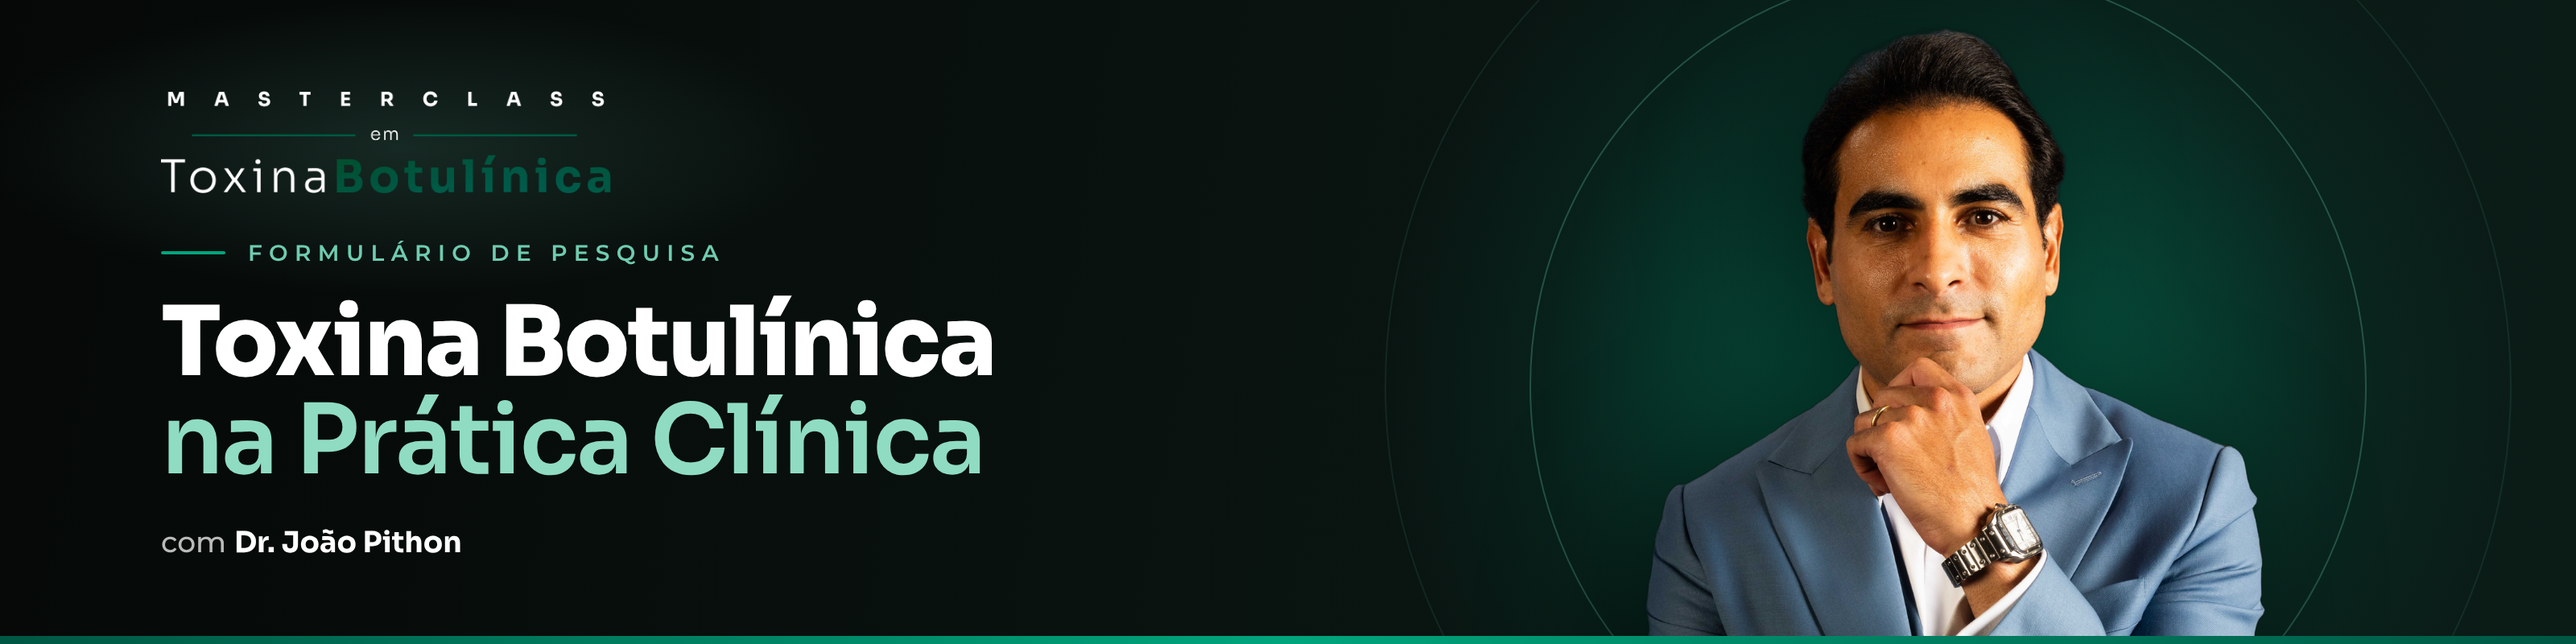
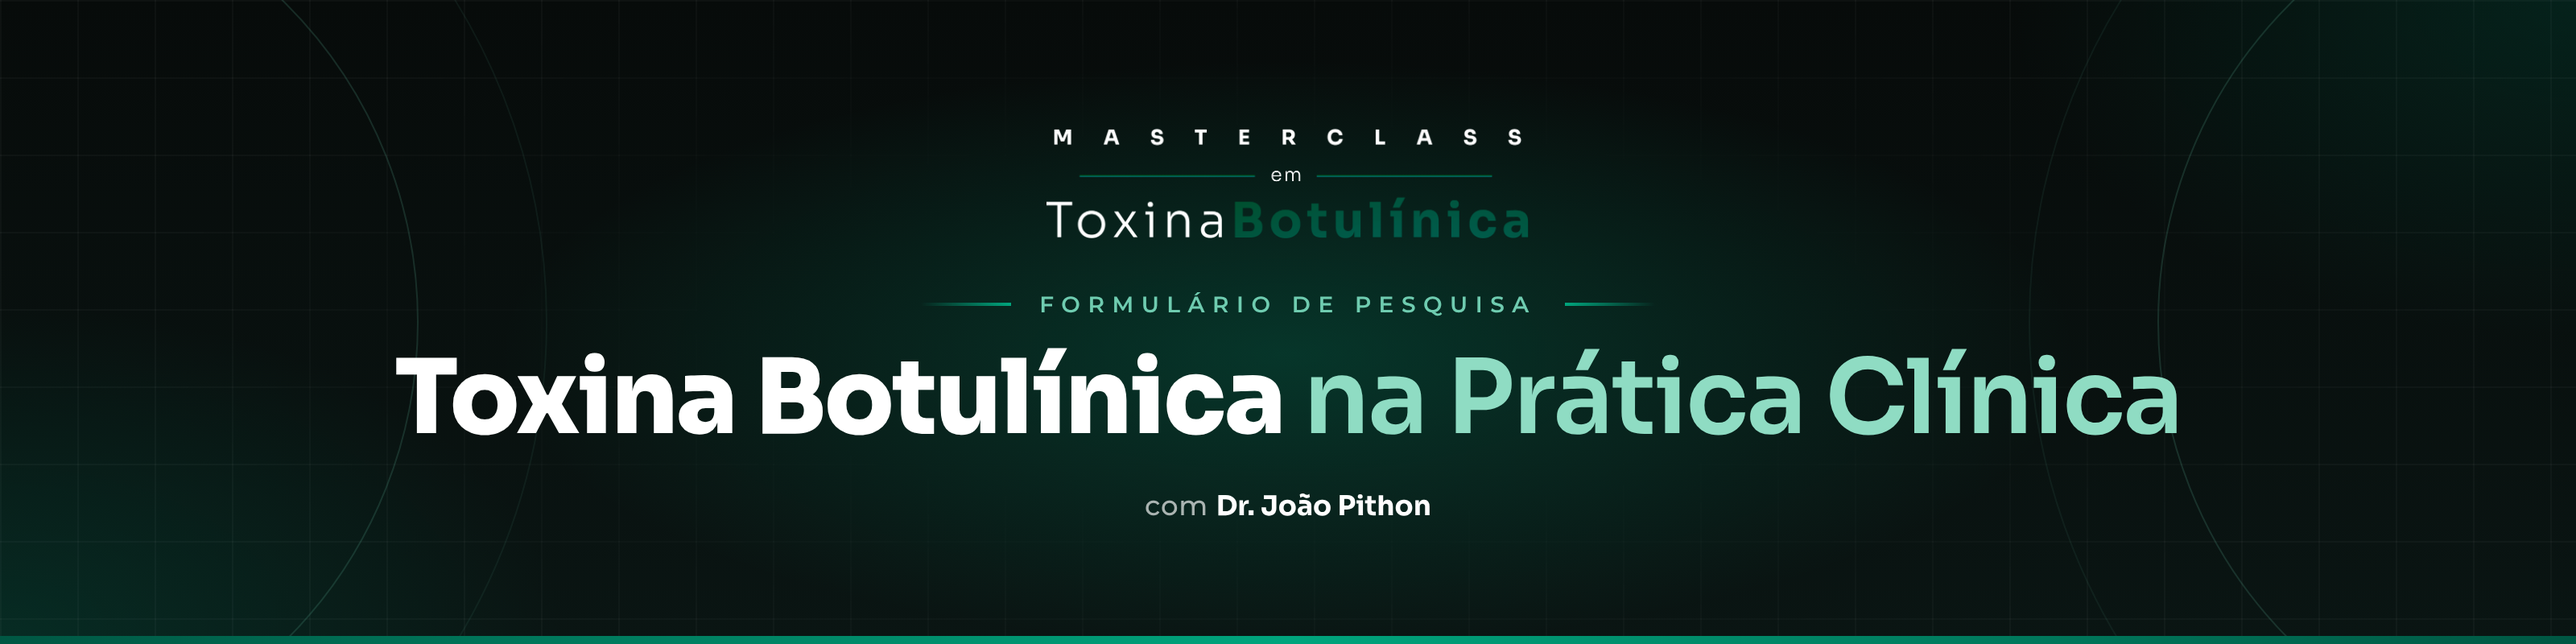
Capa: remove a foto e rediagrama o texto centralizado
Claude-Session: https://claude.ai/code/session_0117TgWWbbKrMnCGmH3B4xTx

diff --git a/FEA-capa-formulario-toxina/FEA-capa-formulario-toxina.html b/FEA-capa-formulario-toxina/FEA-capa-formulario-toxina.html
@@ -1,35 +1,40 @@
 <!doctype html>
 <html lang="pt-BR"><head><meta charset="utf-8">
-<link href="https://fonts.googleapis.com/css2?family=Sora:wght@600;700;800&family=Montserrat:wght@400;500;600&display=swap" rel="stylesheet">
+<link href="https://fonts.googleapis.com/css2?family=Sora:wght@500;600;700;800&family=Montserrat:wght@400;500;600&display=swap" rel="stylesheet">
 <style>
 *{margin:0;padding:0;box-sizing:border-box}
-body{width:1600px;height:400px;overflow:hidden;background:#070B0A}
+body{width:1600px;height:400px;overflow:hidden;background:#060908}
 .c{position:relative;width:1600px;height:400px;overflow:hidden;
- background:radial-gradient(ellipse 380px 130px at 250px 92px,rgba(120,220,190,.14),transparent 70%),
- radial-gradient(circle 460px at 1210px 240px,rgba(0,160,120,.55),rgba(0,87,67,.18) 55%,transparent 78%),
- linear-gradient(100deg,#050807 0%,#09120F 45%,#0B1C17 100%)}
-.ring{position:absolute;border-radius:50%;border:1.5px solid rgba(110,210,180,.28)}
-.r1{width:520px;height:520px;left:950px;top:-20px}
-.r2{width:700px;height:700px;left:860px;top:-110px;border-color:rgba(110,210,180,.10)}
-.photo{position:absolute;height:720px;left:1010px;top:14px;filter:drop-shadow(-14px 10px 40px rgba(0,0,0,.55))}
-.left{position:absolute;left:100px;top:0;height:400px;display:flex;flex-direction:column;justify-content:center;width:820px}
-.logo{width:280px;display:block;margin-bottom:30px}
-.eyebrow{font:600 14px/1 Montserrat;letter-spacing:.3em;color:#6FCCB0;text-transform:uppercase;display:flex;align-items:center;gap:14px;margin-bottom:18px}
-.eyebrow:before{content:"";width:40px;height:2px;background:#00A57D;border-radius:2px}
-h1{font:800 60px/1.02 Sora;color:#fff;letter-spacing:-.02em}
-h1 span{display:block;font-weight:600;color:#8FDCC3}
-.name{position:absolute;right:56px;bottom:34px;text-align:right;font:500 13px/1.35 Montserrat;color:rgba(255,255,255,.7);letter-spacing:.04em}
-.name b{display:block;font:700 22px/1.2 Sora;color:#fff;letter-spacing:0}
-.by{margin-top:22px;font:500 18px/1 Montserrat;color:rgba(255,255,255,.72)}.by b{font:700 18px Sora;color:#fff}
+ background:
+  radial-gradient(ellipse 700px 260px at 50% 55%,rgba(0,150,112,.28),transparent 70%),
+  radial-gradient(ellipse 500px 300px at 0% 100%,rgba(0,87,67,.35),transparent 70%),
+  radial-gradient(ellipse 500px 300px at 100% 0%,rgba(0,87,67,.30),transparent 70%),
+  linear-gradient(180deg,#070B0A,#0A1513)}
+.grid{position:absolute;inset:0;background-image:linear-gradient(rgba(255,255,255,.03) 1px,transparent 1px),linear-gradient(90deg,rgba(255,255,255,.03) 1px,transparent 1px);background-size:48px 48px;
+ -webkit-mask-image:radial-gradient(ellipse 60% 80% at 50% 50%,transparent 30%,#000 75%)}
+.arc{position:absolute;border-radius:50%;border:1.5px solid rgba(110,210,180,.16)}
+.a1{width:560px;height:560px;left:-300px;top:-80px}
+.a2{width:760px;height:760px;left:-420px;top:-180px;border-color:rgba(110,210,180,.07)}
+.a3{width:560px;height:560px;right:-300px;top:-80px}
+.a4{width:760px;height:760px;right:-420px;top:-180px;border-color:rgba(110,210,180,.07)}
+.wrap{position:absolute;inset:0;display:flex;flex-direction:column;align-items:center;justify-content:center;text-align:center}
+.logo{width:300px;margin-bottom:34px}
+.eyebrow{font:600 14px/1 Montserrat;letter-spacing:.34em;color:#6FCCB0;text-transform:uppercase;display:flex;align-items:center;gap:18px;margin-bottom:20px}
+.eyebrow:before,.eyebrow:after{content:"";width:56px;height:1.5px;background:linear-gradient(90deg,transparent,#00A57D)}
+.eyebrow:after{transform:scaleX(-1)}
+h1{font:800 64px/1 Sora;color:#fff;letter-spacing:-.02em;white-space:nowrap}
+h1 span{font-weight:600;color:#8FDCC3}
+.by{margin-top:24px;font:500 17px/1 Montserrat;color:rgba(255,255,255,.66);letter-spacing:.02em}
+.by b{font:700 17px Sora;color:#fff;letter-spacing:0}
 .bar{position:absolute;left:0;bottom:0;width:100%;height:5px;background:linear-gradient(90deg,#005743,#00A57D 50%,#005743)}
 </style></head><body>
 <div class="c">
- <div class="ring r2"></div><div class="ring r1"></div>
- <img class="photo" id="ph" src="FEA-dr-joao-elite.png" alt="Dr. João Pithon">
- <div class="left">
+ <div class="grid"></div>
+ <div class="arc a2"></div><div class="arc a1"></div><div class="arc a4"></div><div class="arc a3"></div>
+ <div class="wrap">
   <img class="logo" src="FEA-logo-mtb.png" alt="Masterclass em Toxina Botulínica">
   <div class="eyebrow">Formulário de pesquisa</div>
-  <h1>Toxina Botulínica<span>na Prática Clínica</span></h1>
+  <h1>Toxina Botulínica <span>na Prática Clínica</span></h1>
   <div class="by">com <b>Dr. João Pithon</b></div>
  </div>
  <div class="bar"></div>
